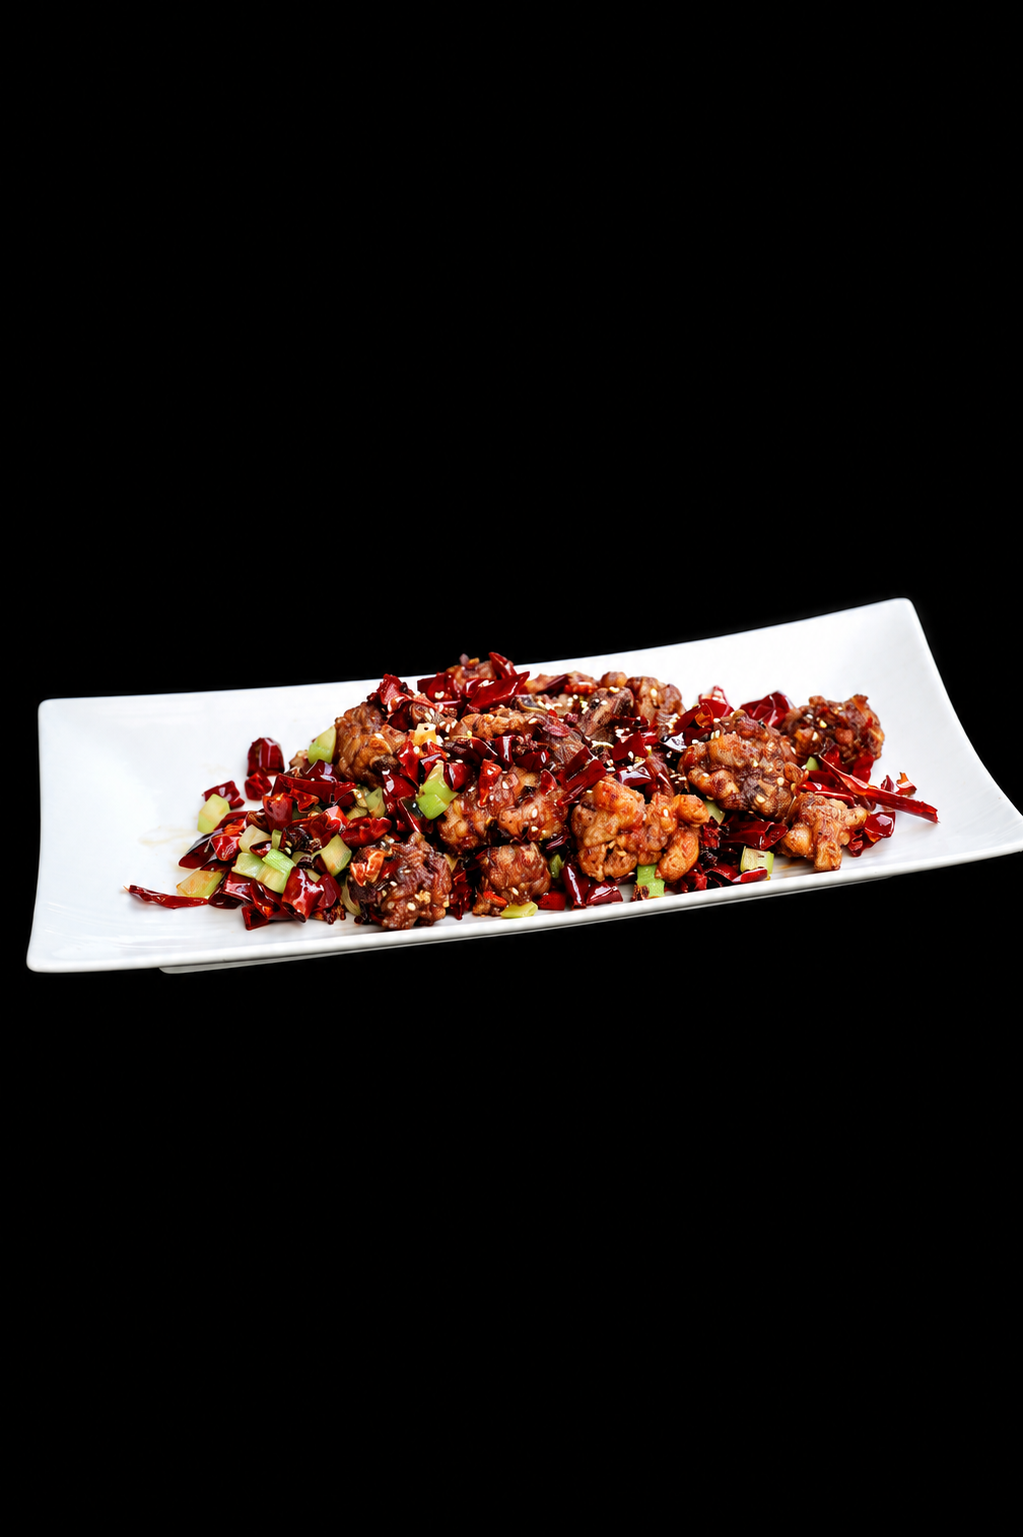
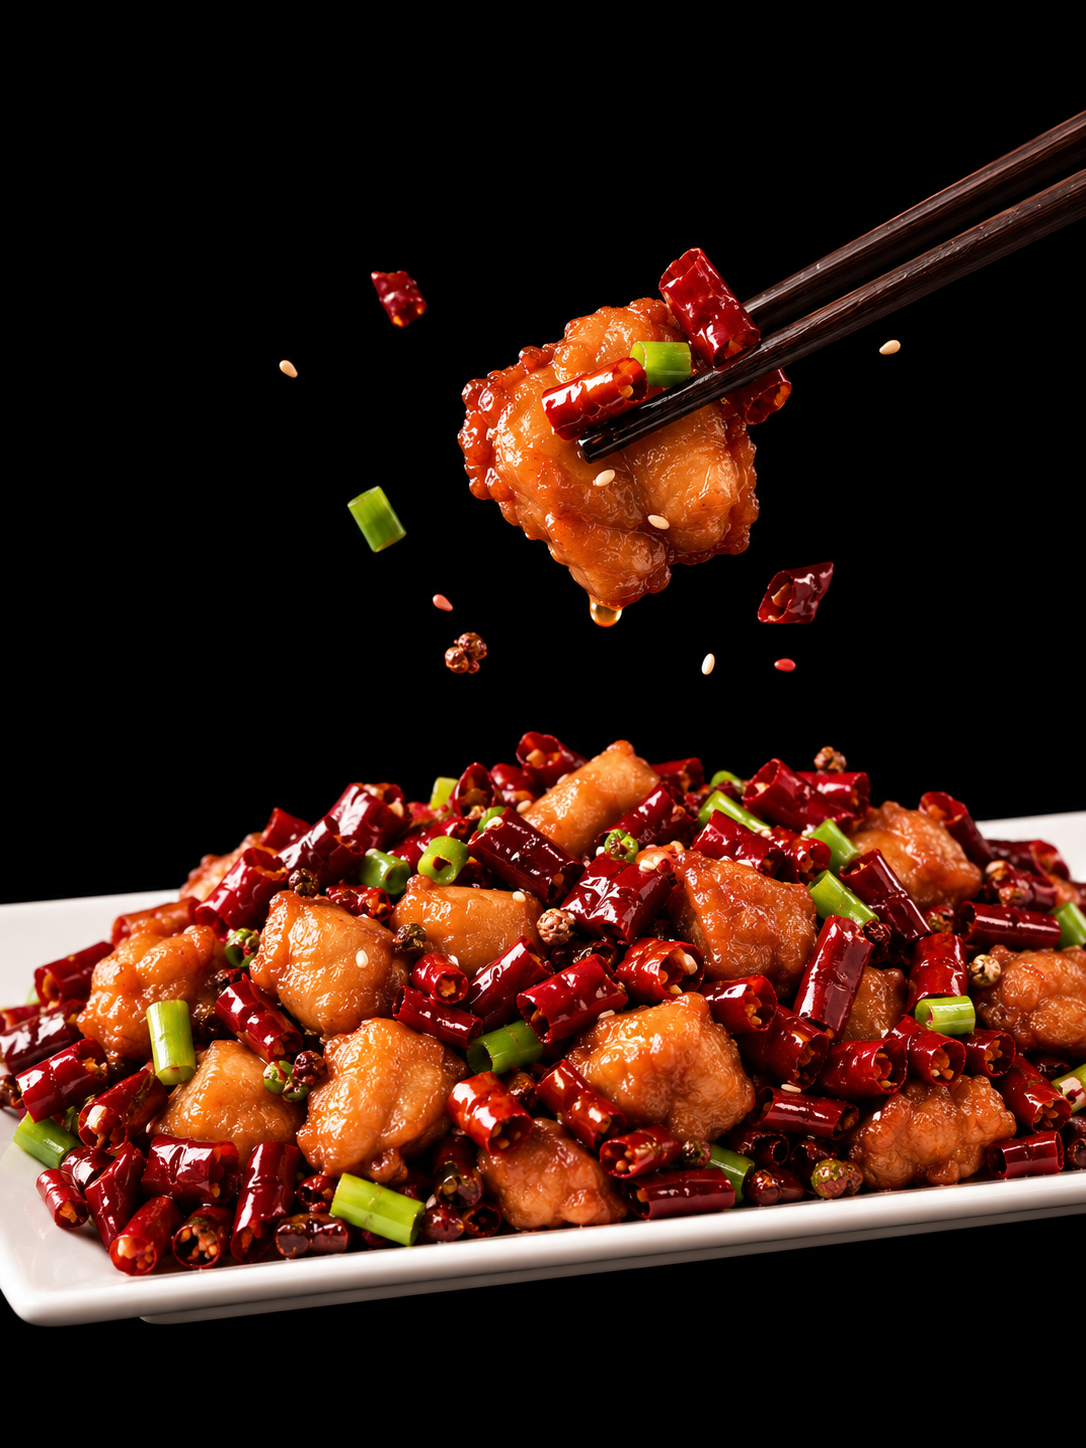
Liens commander/reserver, photos vins chinois & laziji, carrousel 干锅鱿鱼
- Boutons Commander/Reserver: vrais liens order.ody.app / reservation.ody.app (nouvel onglet)
- Vins chinois: ajout des photos Helan Mountain blanc/rouge
- Laziji: nouvelle photo + suppression du zoom (scale 1.7) devenu inutile
- Carrousel: plat renomme 麻辣香锅 -> 干锅鱿鱼 (FR/EN/中)

diff --git a/client/src/components/Navbar.tsx b/client/src/components/Navbar.tsx
@@ -102,10 +102,10 @@ export default function Navbar() {
                 </ul>
               ) : null}
             </div>
-            <a className="nav__cta nav__cta--order" href={INFO.orderUrl}>
+            <a className="nav__cta nav__cta--order" href={INFO.orderUrl} target="_blank" rel="noreferrer">
               {t.cta.order}
             </a>
-            <a className="nav__cta" href={INFO.reserveUrl}>
+            <a className="nav__cta" href={INFO.reserveUrl} target="_blank" rel="noreferrer">
               {t.cta.reserve}
             </a>
             <button
@@ -144,10 +144,10 @@ export default function Navbar() {
           </nav>
 
           <div className="navmenu__cta">
-            <a className="btn btn--gold btn--shine" href={INFO.orderUrl}>
+            <a className="btn btn--gold btn--shine" href={INFO.orderUrl} target="_blank" rel="noreferrer">
               {t.cta.order}
             </a>
-            <a className="btn btn--outline" href={INFO.reserveUrl}>
+            <a className="btn btn--outline" href={INFO.reserveUrl} target="_blank" rel="noreferrer">
               {t.cta.reserve}
             </a>
           </div>

diff --git a/client/src/pages/Home.tsx b/client/src/pages/Home.tsx
@@ -35,7 +35,7 @@ const SLIDE_META = [
   { src: "/images/salle-retro.jpg", cn: "我们走过的童年", focus: "center 45%" },
   { src: "/images/gal-12.jpg", cn: "酸菜鱼", focus: "center 78%" },
   { src: "/images/gal-04.jpg", cn: "宫保鸡丁", focus: "center 52%" },
-  { src: "/images/mala-xiangguo.jpg", cn: "麻辣香锅", focus: "center 55%" },
+  { src: "/images/mala-xiangguo.jpg", cn: "干锅鱿鱼", focus: "center 55%" },
   { src: "/images/tieban-niurou.jpg", cn: "铁板牛肉", focus: "center 78%" },
   { src: "/images/gal-17.jpg", cn: "八九零", focus: "center 58%" },
   { src: "/images/deco-piments-ail.jpg", cn: "辣椒与蒜", focus: "center 45%" },
@@ -89,10 +89,10 @@ export default function Home() {
             {t.hero.sub}
           </p>
           <div className="hero__actions hero__anim" style={{ ["--d" as string]: "0.9s" }}>
-            <a className="btn btn--gold btn--shine" href={INFO.orderUrl}>
+            <a className="btn btn--gold btn--shine" href={INFO.orderUrl} target="_blank" rel="noreferrer">
               {t.cta.order}
             </a>
-            <a className="btn btn--ghost-light btn--shine" href={INFO.reserveUrl}>
+            <a className="btn btn--ghost-light btn--shine" href={INFO.reserveUrl} target="_blank" rel="noreferrer">
               {t.cta.reserveTable}
             </a>
           </div>
@@ -276,7 +276,7 @@ export default function Home() {
             </p>
           </div>
           <div className="cta-band__actions">
-            <a className="btn btn--gold btn--shine" href={INFO.reserveUrl}>
+            <a className="btn btn--gold btn--shine" href={INFO.reserveUrl} target="_blank" rel="noreferrer">
               {t.home.bookOnline}
             </a>
             <a className="btn btn--ghost-light" href={INFO.phoneHref}>

diff --git a/client/src/i18n/ui.ts b/client/src/i18n/ui.ts
@@ -100,7 +100,7 @@ export const UI: Record<Lang, Strings> = {
       { title: "Une salle aux accents rétro", desc: "Le décor chaleureux, entre fresque et brique, des années 80-90." },
       { title: "Poisson à la choucroute", desc: "Bouillon épicé, chou fermenté et poisson frais — un classique du Sichuan." },
       { title: "Poulet aux cacahuètes", desc: "Croquant, parfumé et légèrement piquant — le Gong Bao Ji Ding." },
-      { title: "Marmite épicée sichuanaise", desc: "Wok sec de viandes et légumes, piments et poivre du Sichuan." },
+      { title: "Calamars au wok sec", desc: "Calamars sautés au wok sec, piments, ail et poivre du Sichuan." },
       { title: "Émincé de bœuf aux oignons", desc: "Bœuf grillé sur plaque brûlante, oignons et poivrons." },
       { title: "Une tablée généreuse", desc: "Plats à partager, convivialité et générosité — l'esprit des tables du 890." },
       { title: "Piments et ail", desc: "Les saveurs du Sichuan jusque dans le décor — piments séchés et ail tressé." },
@@ -162,7 +162,7 @@ export const UI: Record<Lang, Strings> = {
       { title: "A retro-styled dining room", desc: "Warm decor, between mural and brick, of the 80s and 90s." },
       { title: "Fish with pickled cabbage", desc: "Spicy broth, fermented cabbage and fresh fish — a Sichuan classic." },
       { title: "Kung pao chicken", desc: "Crispy, fragrant and lightly spicy — Gong Bao Ji Ding." },
-      { title: "Sichuan spicy dry pot", desc: "Dry-pot of meats and vegetables, chillies and Sichuan pepper." },
+      { title: "Dry-pot squid", desc: "Wok-fried squid, chillies, garlic and Sichuan pepper." },
       { title: "Sizzling beef with onions", desc: "Beef seared on a hot iron plate, onions and peppers." },
       { title: "A generous feast", desc: "Dishes to share, warmth and generosity — the spirit of dining at 890." },
       { title: "Chillies and garlic", desc: "Sichuan flavours down to the decor — dried chillies and braided garlic." },
@@ -224,7 +224,7 @@ export const UI: Record<Lang, Strings> = {
       { title: "复古风格的餐厅", desc: "温馨装潢，壁画与砖墙之间，重现八九十年代。" },
       { title: "酸菜鱼", desc: "麻辣汤底、酸菜与鲜鱼 —— 川菜经典。" },
       { title: "宫保鸡丁", desc: "酥脆喷香，微辣经典。" },
-      { title: "麻辣香锅", desc: "干锅荤素，辣椒与花椒 —— 麻辣鲜香。" },
+      { title: "干锅鱿鱼", desc: "干锅鱿鱼，辣椒、蒜与花椒 —— 香辣鲜嫩。" },
       { title: "铁板牛肉", desc: "铁板现煎牛肉，洋葱与彩椒，滋滋作响。" },
       { title: "丰盛的餐桌", desc: "适合分享的菜品，热闹而慷慨 —— 890 的餐桌精神。" },
       { title: "辣椒与蒜", desc: "川味融入装饰 —— 红辣椒与蒜辫。" },

diff --git a/client/src/data/info.ts b/client/src/data/info.ts
@@ -17,9 +17,8 @@ export const INFO = {
   ubereats: "https://www.ubereats.com/fr/search?q=890%20restaurant",
   deliveroo: "https://deliveroo.fr/fr/search?q=890%20restaurant",
   booking: "https://booking.890.laurancevisual.com/",
-  // TODO: remplacer "#" par les vrais liens quand ils seront dispo
-  orderUrl: "#", // lien de commande en ligne
-  reserveUrl: "#", // lien de réservation (page externe)
+  orderUrl: "https://order.ody.app/8fef1d7b-ad9a-4202-9a56-4d9f36ab81c3", // lien de commande en ligne
+  reserveUrl: "https://reservation.ody.app/8fef1d7b-ad9a-4202-9a56-4d9f36ab81c3", // lien de réservation (page externe)
   logo: "/images/logo-890.png",
   hours: [
     { day: "Lundi", value: "12h00 – 14h30 · 18h30 – 22h30" },

diff --git a/client/src/styles.css b/client/src/styles.css
@@ -489,11 +489,6 @@ a { color: inherit; text-decoration: none; }
 .sig2__media { aspect-ratio: 2 / 3; background: #080404; overflow: hidden; }
 .sig2__media img { width: 100%; height: 100%; object-fit: contain; transition: transform 0.9s var(--ease-expo); }
 .sig2:hover .sig2__media img { transform: scale(1.06); }
-/* laziji.png = photo produit (assiette dans une large bande noire) : on zoome pour
-   que le plat remplisse le cadre comme les deux clichés voisins (sélecteur en $= pour
-   matcher aussi le chemin avec base path en prod). */
-.sig2__media img[src$="/images/laziji.png"] { transform: scale(1.7); transform-origin: center 38%; }
-.sig2:hover .sig2__media img[src$="/images/laziji.png"] { transform: scale(1.8); }
 .sig2__body { padding: 1.6rem 1.4rem 1.8rem; text-align: center; border-top: 1px solid rgba(212, 175, 55, 0.15); display: flex; flex-direction: column; align-items: center; }
 .sig2__cn { font-family: var(--font-cn); color: var(--color-gold); font-size: 0.82rem; letter-spacing: 0.18em; }
 .sig2__name { font-family: var(--font-display); font-weight: 600; font-size: 1.5rem; color: var(--color-cream); margin: 0.4rem 0 0; line-height: 1.2; }

diff --git a/client/src/components/Footer.tsx b/client/src/components/Footer.tsx
@@ -20,8 +20,8 @@ export default function Footer() {
           <Link to="/histoire">{t.nav.histoire}</Link>
           <Link to="/carte">{t.nav.carte}</Link>
           <Link to="/galerie">{t.nav.galerie}</Link>
-          <a href={INFO.reserveUrl}>{t.footer.reserve}</a>
-          <a href={INFO.orderUrl}>{t.footer.order}</a>
+          <a href={INFO.reserveUrl} target="_blank" rel="noreferrer">{t.footer.reserve}</a>
+          <a href={INFO.orderUrl} target="_blank" rel="noreferrer">{t.footer.order}</a>
         </div>
 
         <div className="footer__col">

diff --git a/client/src/data/menu.ts b/client/src/data/menu.ts
@@ -294,8 +294,8 @@ export const MENU: MenuCategory[] = [
     note: "Changyu, pionnier du vin chinois depuis 1892. Vignobles du Helan Mountain (Ningxia), présents dans les restaurants étoilés Michelin et lors de plus de 300 dîners d'État.",
     noteEn: "Changyu, pioneer of Chinese wine since 1892. Helan Mountain vineyards (Ningxia), served in Michelin-starred restaurants and at over 300 state dinners.",
     dishes: [
-      { name: "Helan Mountain Blanc de Noir Cabernet 2023 (75cl)", en: "Helan Mountain Blanc de Noir Cabernet 2023 (75cl)", cn: "白葡萄酒，赤霞珠黑中白，中国宁夏贺兰山酿，2023", price: "38,00 €" },
-      { name: "Helan Mountain Cabernet Sauvignon 2021 (75cl)", en: "Helan Mountain Cabernet Sauvignon 2021 (75cl)", cn: "红葡萄酒，赤霞珠干红，中国宁夏贺兰山酿，2021", price: "38,00 €" },
+      { name: "Helan Mountain Blanc de Noir Cabernet 2023 (75cl)", en: "Helan Mountain Blanc de Noir Cabernet 2023 (75cl)", cn: "白葡萄酒，赤霞珠黑中白，中国宁夏贺兰山酿，2023", price: "38,00 €", image: "/images/menu/vinschinois1.jpg" },
+      { name: "Helan Mountain Cabernet Sauvignon 2021 (75cl)", en: "Helan Mountain Cabernet Sauvignon 2021 (75cl)", cn: "红葡萄酒，赤霞珠干红，中国宁夏贺兰山酿，2021", price: "38,00 €", image: "/images/menu/vinschinois2.jpg" },
     ],
   },
   {

diff --git a/client/src/pages/Carte.tsx b/client/src/pages/Carte.tsx
@@ -187,10 +187,10 @@ export default function Carte() {
         </p>
 
         <div className="center-cta center-cta--row">
-          <a className="btn btn--gold btn--shine" href={INFO.orderUrl}>
+          <a className="btn btn--gold btn--shine" href={INFO.orderUrl} target="_blank" rel="noreferrer">
             {t.cta.order}
           </a>
-          <a className="btn btn--red" href={INFO.reserveUrl}>
+          <a className="btn btn--red" href={INFO.reserveUrl} target="_blank" rel="noreferrer">
             {t.cta.reserveTable}
           </a>
         </div>

diff --git a/client/src/pages/Contact.tsx b/client/src/pages/Contact.tsx
@@ -92,7 +92,7 @@ export default function Contact() {
             </ul>
 
             <div className="contact2__actions">
-              <a className="btn btn--gold btn--shine" href={INFO.reserveUrl}>
+              <a className="btn btn--gold btn--shine" href={INFO.reserveUrl} target="_blank" rel="noreferrer">
                 {t.cta.reserveTable}
               </a>
               <a className="btn btn--outline" href={INFO.mapsUrl} target="_blank" rel="noreferrer">

diff --git a/client/src/pages/Galerie.tsx b/client/src/pages/Galerie.tsx
@@ -83,7 +83,7 @@ export default function Galerie() {
         </div>
 
         <div className="center-cta">
-          <a className="btn btn--gold btn--shine" href={INFO.reserveUrl}>
+          <a className="btn btn--gold btn--shine" href={INFO.reserveUrl} target="_blank" rel="noreferrer">
             {t.cta.reserveTable}
           </a>
         </div>